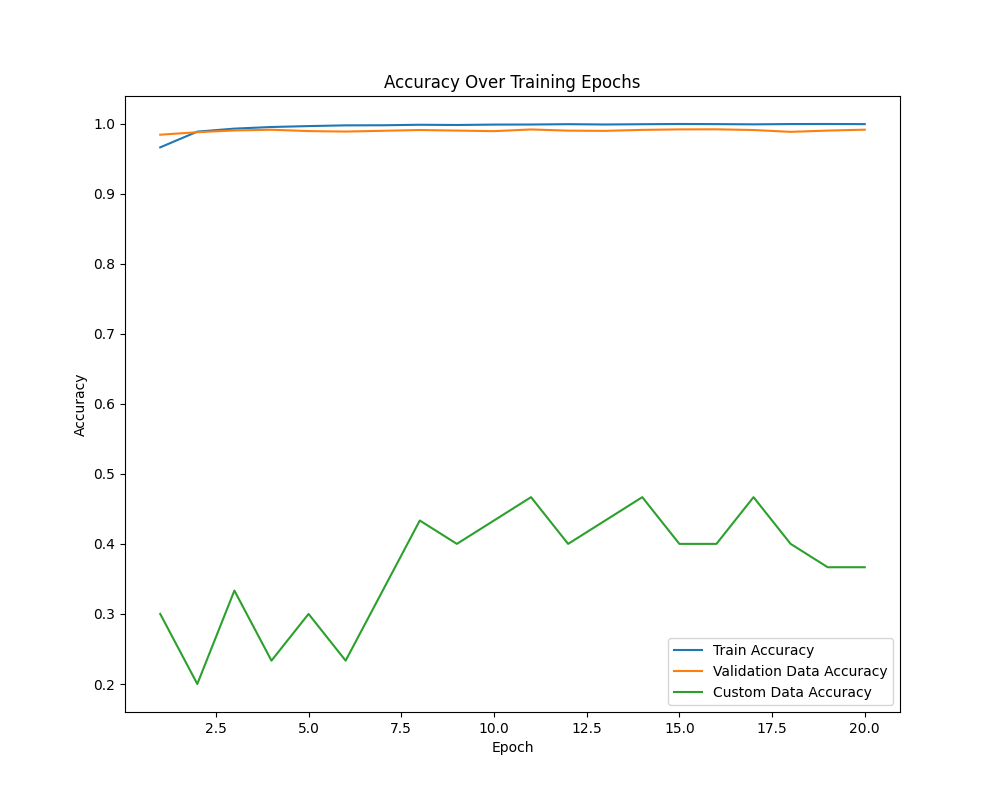
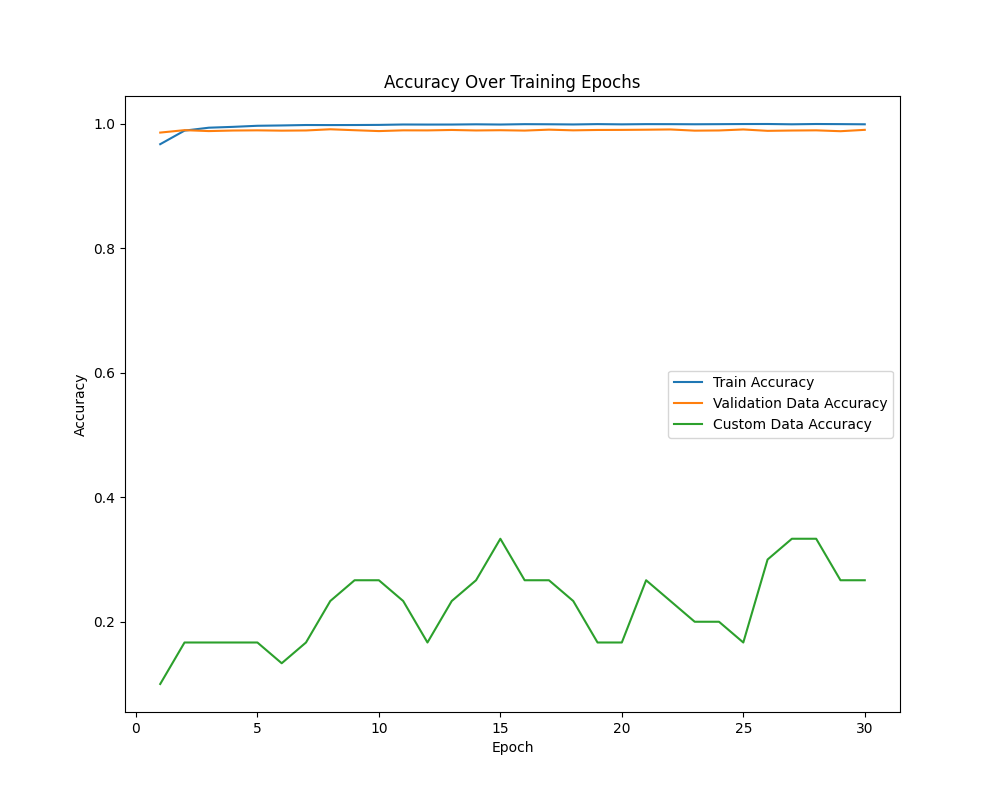
new seed test

diff --git a/Sem4/AI/neural/train_and_plot.py b/Sem4/AI/neural/train_and_plot.py
@@ -4,6 +4,9 @@ import matplotlib.pyplot as plt
 from sklearn.metrics import accuracy_score
 from custom_data.process_img import get_imgs
 
+np.random.seed(279679)
+tf.random.set_seed(279679)
+
 # mnist dataset
 (x_train, y_train), (x_test, y_test) = tf.keras.datasets.mnist.load_data()
 
@@ -26,7 +29,7 @@ train_accuracies = []
 val_accuracies = []
 custom_accuracies = []
 
-epochs = 20
+epochs = 30
 for epoch in range(epochs):
 
     # train for one epoch
@@ -39,6 +42,8 @@ for epoch in range(epochs):
     # accuracy on custom data
     y_custom_pred = np.argmax(model.predict(x_custom), axis=1)
     custom_acc = accuracy_score(y_custom, y_custom_pred)
+
+    print(f"MY ACCURACY: {custom_acc}")
 
     # Store accuracies
     train_accuracies.append(train_acc)

diff --git a/Sem4/AI/neural/compile.py b/Sem4/AI/neural/compile.py
@@ -1,5 +1,7 @@
 import tensorflow as tf
 
+tf.random.set_seed(279679)
+
 # cnn model (better for image data)
 model = tf.keras.models.Sequential([
 
@@ -7,12 +9,11 @@ model = tf.keras.models.Sequential([
     tf.keras.layers.Conv2D(32, (3, 3), activation='relu', input_shape=(28, 28, 1)),
 
     # downsamples the image (bochen)
-    tf.keras.layers.MaxPooling2D((2, 2)),
+    tf.keras.layers.MaxPooling2D((2, 2), strides=2),
     
     # relu - rectified linear unit
     # zero negative values, shut down neuron, help with vanishing gradient
     tf.keras.layers.Conv2D(64, (3, 3), activation='relu'),
-    # tf.keras.layers.MaxPooling2D((2, 2)),
 
     # flattens image to 1D array
     tf.keras.layers.Flatten(),

diff --git a/Sem4/AI/neural/train_and_metrics.py b/Sem4/AI/neural/train_and_metrics.py
@@ -7,6 +7,9 @@ from custom_data.process_img import get_imgs
 
 BEST_EPOCHS = 11
 
+np.random.seed(279679)
+tf.random.set_seed(279679)
+
 # mnist dataset
 (x_train, y_train), (x_test, y_test) = tf.keras.datasets.mnist.load_data()
 
